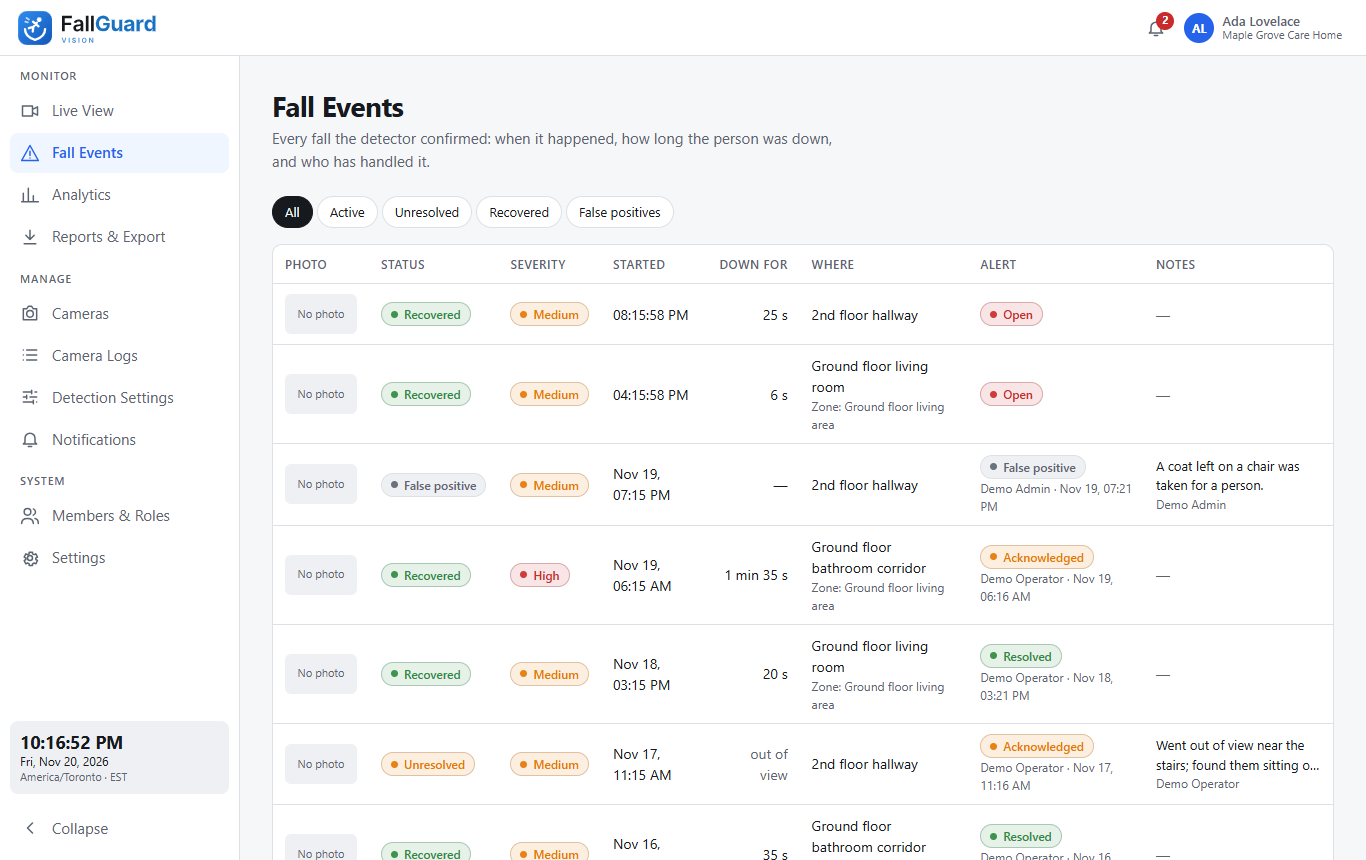
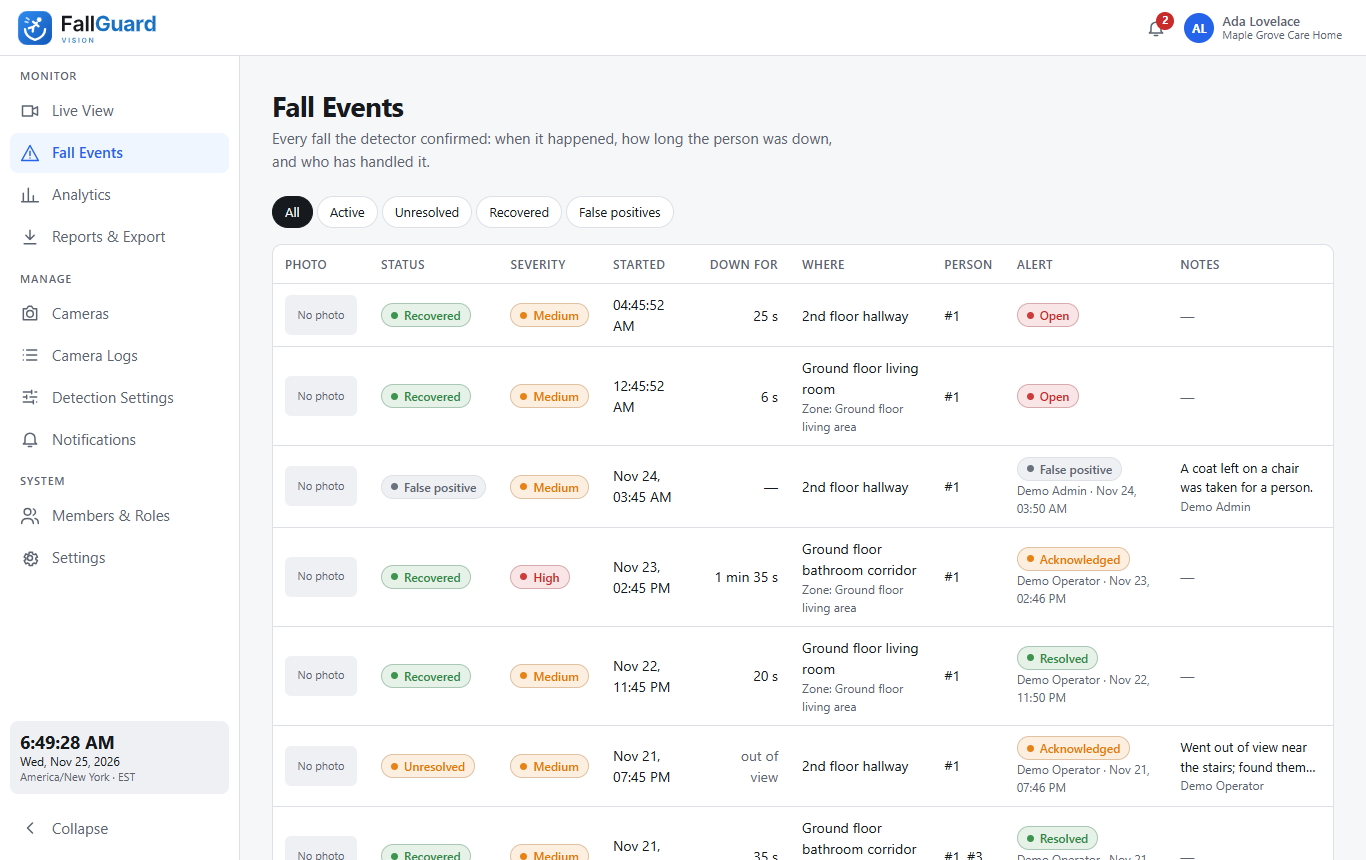
feat(frontend): Person column in Fall Events; reports filtered by fall and printable at once; long timelines fit
- Fall Events: a Person column (the detector's number for the person, e.g. #6), so two falls in
  the same place can be told apart.
- Incident page: the "What the detector saw" timeline fits its column however long the
  incident (it used to widen the left column, so the video ran under the Alert card).
- Reports & Export: the incident report forms follow the filters above (by when the fall
  happened, not when the report was written); Print / PDF for each report and for all listed
  reports at once, each on its own pages. The print layout moved to PrintView.tsx (shared with
  the report editor).
- Detection Settings: "Out of view for" help matches the new detector rule.
- Screenshots 04, 05, 10, 17, 18, 21, 23 refreshed; ARCHITECTURE caption updated.

diff --git a/fallguard-frontend/src/features/incident-reports/IncidentReportsList.tsx b/fallguard-frontend/src/features/incident-reports/IncidentReportsList.tsx
@@ -7,6 +7,7 @@ import { usePolling } from '../../services/api/usePolling';
 import { formatTime } from '../../lib/format';
 import { PERM, useAuth } from '../auth/AuthContext';
 import { formById } from './forms';
+import { useReportPrinter } from './PrintView';
 
 const csvCell = (s: string) => {
   const v = /^[=+\-@\t\r]/.test(s) ? "'" + s : s; // keep spreadsheets from running text as a formula
@@ -82,29 +83,49 @@ function RecentlyDeleted({ onRestored }: { onRestored: () => unknown }) {
   );
 }
 
-/** Every incident report of the organization (Reports & Export page). */
-export function IncidentReportsList() {
+/**
+ * The organization's incident reports (Reports & Export page). With incidentIds, only the
+ * reports of those fall events: the page's filters pick events by when the fall happened,
+ * not by when the report was written. null = the events are still loading.
+ */
+export function IncidentReportsList({ incidentIds }: { incidentIds?: Set<string> | null }) {
   const { can } = useAuth();
   const { data, error, reload } = usePolling(() => incidentReports.list(), 30000);
-  const reports = data?.reports ?? [];
+  const printer = useReportPrinter(can(PERM.incidentReports));
+  const all = data?.reports ?? [];
+  const reports = incidentIds ? all.filter((r) => incidentIds.has(r.incident_id)) : all;
   const osha = reports.filter((r) => r.form === 'osha_301').length;
+  const hidden = all.length - reports.length;
 
   return (
     <section className="card rp-section">
       <div className="rp-head">
         <h2 className="section-title">Incident report forms</h2>
-        {osha > 0 && (
-          <button className="btn" onClick={() => downloadOsha300(reports)}>
-            <Icon name="download" size={16} /> OSHA 300 Log (CSV)
-          </button>
-        )}
+        <div className="row">
+          {osha > 0 && (
+            <button className="btn" onClick={() => downloadOsha300(reports)}>
+              <Icon name="download" size={16} /> OSHA 300 Log (CSV)
+            </button>
+          )}
+          {reports.length > 0 && (
+            <button className="btn btn--primary" disabled={printer.loading} onClick={() => void printer.print(reports)}
+              title="Opens the print dialog with every report listed below, each on its own pages. Choose Save as PDF to download them.">
+              <Icon name="download" size={16} /> {printer.loading ? 'Preparing…' : `Print / PDF all (${reports.length})`}
+            </button>
+          )}
+        </div>
       </div>
-      <p className="muted rp-note">WSIB Form 7, OHSA notices, OSHA 301 and internal reports. Start one from a fall event's page; FallGuard fills in what it recorded.</p>
+      <p className="muted rp-note">
+        WSIB Form 7, OHSA notices, OSHA 301 and internal reports. Start one from a fall event's page; FallGuard fills in what it recorded.
+        {incidentIds !== undefined && ' Shows the reports of the fall events that match the filters above (by when the fall happened).'}
+      </p>
       {error && <p className="notice notice--error">{error}</p>}
-      {reports.length === 0 ? <p className="muted">No incident reports yet.</p> : (
+      {(!data && !error) || incidentIds === null ? <p className="muted">Loading…</p> : reports.length === 0 ? (
+        <p className="muted">{hidden > 0 ? `No reports for these fall events (${hidden} for other events: widen the time window or clear a filter).` : 'No incident reports yet.'}</p>
+      ) : (
         <div className="table-wrap">
           <table className="table">
-            <thead><tr><th>Report</th><th>Incident</th><th>Status</th><th>Started by</th><th>Updated</th></tr></thead>
+            <thead><tr><th>Report</th><th>Fall event</th><th>Status</th><th>Started by</th><th>Updated</th><th /></tr></thead>
             <tbody>
               {reports.map((r) => (
                 <tr key={r.id}>
@@ -115,13 +136,21 @@ export function IncidentReportsList() {
                   <td><StatusBadge value={r.status === 'final' ? 'resolved' : 'acknowledged'} label={r.status === 'final' ? 'Final' : 'Draft'} /></td>
                   <td className="muted">{r.created_by ?? '—'}</td>
                   <td className="muted">{formatTime(r.updated_at)}</td>
+                  <td>
+                    <button className="btn btn--sm" disabled={printer.loading} onClick={() => void printer.print([r])}
+                      aria-label={`Print or save as PDF: ${formById(r.form)?.short ?? r.form}, ${r.title}`}>
+                      Print / PDF
+                    </button>
+                  </td>
                 </tr>
               ))}
             </tbody>
           </table>
+          {hidden > 0 && <p className="muted rp-sub">{hidden} other report(s) belong to fall events outside these filters.</p>}
         </div>
       )}
       {can(PERM.incidentReports) && <RecentlyDeleted onRestored={reload} />}
+      {printer.sheets}
     </section>
   );
 }

diff --git a/fallguard-frontend/src/features/incident-reports/PrintView.tsx b/fallguard-frontend/src/features/incident-reports/PrintView.tsx
@@ -1,0 +1,107 @@
+import { useEffect, useRef, useState } from 'react';
+import { createPortal } from 'react-dom';
+import { incidentReports, type IncidentReport, type ReportFacts } from '../../services/api/accounts';
+import { snapshotUrl } from '../../services/api/fallguard';
+import { formatTime } from '../../lib/format';
+import { formById } from './forms';
+import './reports.css';
+
+/** The report as a printable document (shown only when printing / saving as PDF). */
+export function PrintView({ report, fields, facts }: { report: IncidentReport; fields: Record<string, string>; facts: ReportFacts | null }) {
+  const form = formById(report.form);
+  if (!form) return null;
+  const snap = facts?.cameras.find((c) => c.snapshot_key)?.snapshot_key;
+  return (
+    <article className="rep-print" aria-hidden="true">
+      <header className="rep-print__head">
+        <div>
+          <img src="/brand/logo-horizontal-vision-light.svg" alt="FallGuard Vision" className="rep-print__logo" />
+          <h1>{form.name}</h1>
+          <p>{facts?.org.legal_name || facts?.org.name}</p>
+          <p className="rep-print__for">Prepared for: {form.authority}</p>
+        </div>
+        <div className="rep-print__meta">
+          <div>Status: {report.status === 'final' ? 'Final' : 'Draft'}</div>
+          <div>Incident {report.incident_id.slice(0, 8)}</div>
+          {report.incident_started_at && <div>Fall on {formatTime(report.incident_started_at)}</div>}
+          <div>Printed {new Date().toLocaleString()}</div>
+        </div>
+      </header>
+      <p className="rep-print__deadline"><strong>Deadline:</strong> {form.deadline}</p>
+      {form.sections.map((s) => (
+        <section key={s.title} className="rep-print__section">
+          <h2>{s.title}</h2>
+          <dl>
+            {s.fields.map((f) => (
+              <div key={f.key} className={f.wide || f.type === 'textarea' ? 'wide' : ''}>
+                <dt>{f.label}</dt>
+                <dd>{fields[f.key]?.trim() || '—'}</dd>
+              </div>
+            ))}
+          </dl>
+        </section>
+      ))}
+      {snap && (
+        <section className="rep-print__section">
+          <h2>Snapshot</h2>
+          <img src={snapshotUrl(snap)} alt="" className="rep-print__snap" />
+        </section>
+      )}
+      <footer className="rep-print__foot">
+        <p>{form.disclaimer}</p>
+        <p>Signature: ______________________________ Date: ______________</p>
+      </footer>
+    </article>
+  );
+}
+
+/** Waits until the images inside el have loaded (or failed), at most ms. */
+function imagesLoaded(el: HTMLElement, ms: number) {
+  const pending = [...el.querySelectorAll('img')].filter((i) => !i.complete)
+    .map((i) => new Promise<void>((done) => { i.onload = i.onerror = () => done(); }));
+  return Promise.race([Promise.all(pending), new Promise((done) => setTimeout(done, ms))]);
+}
+
+/**
+ * Prints several reports in one go, each starting on a new page (the browser's print dialog
+ * also saves as PDF). print(list) loads each incident's facts (organization name, snapshot)
+ * when allowed, then opens the dialog with only these reports on it.
+ */
+export function useReportPrinter(withFacts: boolean) {
+  const [batch, setBatch] = useState<{ reports: IncidentReport[]; facts: Record<string, ReportFacts | null> } | null>(null);
+  const [loading, setLoading] = useState(false);
+  const box = useRef<HTMLDivElement>(null);
+
+  useEffect(() => {
+    if (!batch || !box.current) return;
+    let cancelled = false;
+    document.body.classList.add('printing-batch');
+    const done = () => { document.body.classList.remove('printing-batch'); setBatch(null); };
+    window.addEventListener('afterprint', done, { once: true });
+    void imagesLoaded(box.current, 5000).then(() => { if (!cancelled) window.print(); });
+    return () => { cancelled = true; window.removeEventListener('afterprint', done); document.body.classList.remove('printing-batch'); };
+  }, [batch]);
+
+  const print = async (reports: IncidentReport[]) => {
+    if (reports.length === 0) return;
+    setLoading(true);
+    const facts: Record<string, ReportFacts | null> = {};
+    if (withFacts) {
+      const ids = [...new Set(reports.map((r) => r.incident_id))];
+      await Promise.all(ids.map((id) => incidentReports.facts(id).then((f) => { facts[id] = f; }, () => { facts[id] = null; })));
+    }
+    setLoading(false);
+    setBatch({ reports, facts });
+  };
+
+  // In <body> itself, so printing can hide everything else (body.printing-batch in reports.css).
+  const sheets = batch && createPortal(
+    <div ref={box} className="rep-print-batch">
+      {batch.reports.map((r) => (
+        <PrintView key={r.id} report={r} fields={r.content.fields ?? {}} facts={batch.facts[r.incident_id] ?? null} />
+      ))}
+    </div>,
+    document.body,
+  );
+  return { print, loading, sheets };
+}

diff --git a/fallguard-frontend/src/features/incident-reports/ReportEditorPage.tsx b/fallguard-frontend/src/features/incident-reports/ReportEditorPage.tsx
@@ -6,12 +6,12 @@ import { PageHeader } from '../../components/ui/PageHeader';
 import { StatusBadge } from '../../components/ui/StatusBadge';
 import { Icon } from '../../components/ui/Icon';
 import { incidentReports, shareLinks, type IncidentReport, type ReportFacts } from '../../services/api/accounts';
-import { snapshotUrl } from '../../services/api/fallguard';
 import { formatTime } from '../../lib/format';
 import { PERM, useAuth } from '../auth/AuthContext';
 import {
   autoFill, formById, hasBlanks, missing, REPORT_SHARE_DAYS, SHARE_PLACEHOLDER, shareLinkIn, withShareLink, type Field,
 } from './forms';
+import { PrintView } from './PrintView';
 import './reports.css';
 
 const errorText = (e: unknown) => (e instanceof Error ? e.message.charAt(0).toUpperCase() + e.message.slice(1) : String(e));
@@ -53,53 +53,6 @@ function FieldInput({ f, value, onChange, disabled, auto, from }: {
       {input}
       {f.help && <small>{f.help}</small>}
     </label>
-  );
-}
-
-/** The report as a printable document (shown when printing / saving as PDF). */
-function PrintView({ report, fields, facts }: { report: IncidentReport; fields: Record<string, string>; facts: ReportFacts | null }) {
-  const form = formById(report.form)!;
-  const snap = facts?.cameras.find((c) => c.snapshot_key)?.snapshot_key;
-  return (
-    <article className="rep-print" aria-hidden="true">
-      <header className="rep-print__head">
-        <div>
-          <img src="/brand/logo-horizontal-vision-light.svg" alt="FallGuard Vision" className="rep-print__logo" />
-          <h1>{form.name}</h1>
-          <p>{facts?.org.legal_name || facts?.org.name}</p>
-          <p className="rep-print__for">Prepared for: {form.authority}</p>
-        </div>
-        <div className="rep-print__meta">
-          <div>Status: {report.status === 'final' ? 'Final' : 'Draft'}</div>
-          <div>Incident {report.incident_id.slice(0, 8)}</div>
-          <div>Printed {new Date().toLocaleString()}</div>
-        </div>
-      </header>
-      <p className="rep-print__deadline"><strong>Deadline:</strong> {form.deadline}</p>
-      {form.sections.map((s) => (
-        <section key={s.title} className="rep-print__section">
-          <h2>{s.title}</h2>
-          <dl>
-            {s.fields.map((f) => (
-              <div key={f.key} className={f.wide || f.type === 'textarea' ? 'wide' : ''}>
-                <dt>{f.label}</dt>
-                <dd>{fields[f.key]?.trim() || '—'}</dd>
-              </div>
-            ))}
-          </dl>
-        </section>
-      ))}
-      {snap && (
-        <section className="rep-print__section">
-          <h2>Snapshot</h2>
-          <img src={snapshotUrl(snap)} alt="" className="rep-print__snap" />
-        </section>
-      )}
-      <footer className="rep-print__foot">
-        <p>{form.disclaimer}</p>
-        <p>Signature: ______________________________ Date: ______________</p>
-      </footer>
-    </article>
   );
 }
 

diff --git a/fallguard-frontend/src/features/events/EventsPage.tsx b/fallguard-frontend/src/features/events/EventsPage.tsx
@@ -6,7 +6,14 @@ import { api } from '../../services/api/fallguard';
 import { Snapshot } from './Snapshot';
 import { usePolling } from '../../services/api/usePolling';
 import { alertBy, formatDuration, formatTime, secondsSince } from '../../lib/format';
+import type { Incident } from '../../types/domain';
 import './events.css';
+
+/** The detector's number for the person ("#6"), per camera when several saw them. */
+function personLabel(i: Incident) {
+  const ids = [...new Set(i.cameras.filter((c) => c.track_id > 0).map((c) => `#${c.track_id}`))];
+  return ids.length ? ids.join(', ') : <span className="muted">—</span>;
+}
 
 const FILTERS = [
   { value: '', label: 'All' },
@@ -54,7 +61,7 @@ export default function EventsPage() {
             <thead>
               <tr>
                 <th>Photo</th><th>Status</th><th>Severity</th><th>Started</th><th className="num">Down for</th>
-                <th>Where</th><th>Alert</th><th>Notes</th>
+                <th>Where</th><th title="The detector's number for the person on that camera">Person</th><th>Alert</th><th>Notes</th>
               </tr>
             </thead>
             <tbody>
@@ -79,6 +86,7 @@ export default function EventsPage() {
                     <div>{i.location_label || i.camera_name || 'Unknown camera'}</div>
                     <div className="muted ev-sub">{[i.zone && `Zone: ${i.zone}`, i.cameras.length > 1 && `${i.cameras.length} cameras`].filter(Boolean).join(' · ')}</div>
                   </td>
+                  <td>{personLabel(i)}</td>
                   <td>
                     {i.alert ? <StatusBadge value={i.alert.status} /> : <span className="muted">—</span>}
                     {(i.alert?.closed_at || i.alert?.acknowledged_at) && (

diff --git a/fallguard-frontend/src/features/events/events.css b/fallguard-frontend/src/features/events/events.css
@@ -15,8 +15,13 @@
 .ev-legend { margin-top: 8px; }
 
 /* Label timeline: one step per prediction, 2px surface gap between steps. */
-.timeline { list-style: none; margin: 0 0 6px; padding: 0; display: flex; gap: 2px; height: 28px; }
-.timeline__step { flex: 1; min-width: 3px; border-radius: 4px; background: var(--surface-2); }
+.timeline { list-style: none; margin: 0 0 6px; padding: 0; display: flex; gap: 2px; height: 28px; overflow: hidden; }
+.timeline__step { flex: 1 1 0; min-width: 0; border-radius: 4px; background: var(--surface-2); }
+/* Long incidents: steps touch, so hundreds of seconds still fit the column. */
+.timeline--dense { gap: 0; }
+.timeline--dense .timeline__step { border-radius: 0; }
+.timeline--dense .timeline__step:first-child { border-radius: 4px 0 0 4px; }
+.timeline--dense .timeline__step:last-child { border-radius: 0 4px 4px 0; }
 .timeline__step--upright { background: var(--ok); }
 .timeline__step--falling { background: var(--warn); }
 .timeline__step--lying { background: var(--danger); }

diff --git a/fallguard-frontend/src/features/detection/DetectionPage.tsx b/fallguard-frontend/src/features/detection/DetectionPage.tsx
@@ -24,7 +24,7 @@ const TIMINGS: { key: string; label: string; help: string }[] = [
   { key: 'high_after_seconds', label: 'Severity high after', help: 'Still down after this long' },
   { key: 'critical_after_seconds', label: 'Severity critical after', help: 'Still down after this long' },
   { key: 'handoff_seconds', label: 'Same person if renumbered within', help: 'A new tracker ID where someone was just lost carries on their fall' },
-  { key: 'lost_track_seconds', label: 'Out of view for', help: 'Then the incident is "unresolved": someone should check' },
+  { key: 'lost_track_seconds', label: 'Out of view for', help: 'Then they are forgotten. A fall last seen at the edge of the picture becomes "unresolved" (out of view); one hidden inside the picture stays open' },
   { key: 'merge_window_seconds', label: 'Zone merge window', help: 'Falls seen by several cameras of a zone within this time are one alert' },
 ];
 

diff --git a/fallguard-frontend/src/features/events/IncidentPage.tsx b/fallguard-frontend/src/features/events/IncidentPage.tsx
@@ -19,7 +19,7 @@ function Timeline({ predictions }: { predictions: Prediction[] }) {
   if (predictions.length === 0) return <p className="muted">No per-second data stored for this incident.</p>;
   return (
     <>
-      <ol className="timeline" aria-label="Detector labels over time">
+      <ol className={`timeline${predictions.length > 120 ? ' timeline--dense' : ''}`} aria-label="Detector labels over time">
         {predictions.map((p, i) => (
           <li key={i} className={`timeline__step timeline__step--${p.label}`}
             title={`${formatTime(p.at)} · ${LABEL_TEXT[p.label] ?? p.label} (${p.confidence.toFixed(2)})`} />

diff --git a/fallguard-frontend/src/features/incident-reports/reports.css b/fallguard-frontend/src/features/incident-reports/reports.css
@@ -55,6 +55,9 @@
   .rep-print dt { font-size: 8.5pt; color: #444; }
   .rep-print dd { margin: 0; white-space: pre-wrap; border-bottom: 1px solid #ccc; min-height: 1.3em; }
   .rep-print__snap { max-width: 60%; max-height: 70mm; }
+  /* Several reports printed from Reports & Export: only them, each on its own pages. */
+  body.printing-batch > :not(.rep-print-batch) { display: none !important; }
+  .rep-print-batch .rep-print + .rep-print { break-before: page; }
   .rep-print__foot { margin-top: 14px; font-size: 9pt; border-top: 1px solid #000; padding-top: 6px; }
 }
 

diff --git a/fallguard-frontend/src/components/ui/ui.css b/fallguard-frontend/src/components/ui/ui.css
@@ -54,7 +54,7 @@
 .tile__hint { font-size: 12px; color: var(--text-muted); }
 
 .section-title { font-size: 16px; margin: 0 0 12px; }
-.stack { display: grid; gap: 20px; }
+.stack { display: grid; gap: 20px; grid-template-columns: minmax(0, 1fr); }
 .row { display: flex; gap: 8px; flex-wrap: wrap; align-items: center; }
 .tabs { display: flex; gap: 4px; flex-wrap: wrap; margin-bottom: 16px; }
 .tab { height: 32px; padding: 0 12px; border-radius: 99px; border: 1px solid var(--border); font-size: 13px; background: var(--surface); }

diff --git a/fallguard-frontend/src/features/reports/ReportsPage.tsx b/fallguard-frontend/src/features/reports/ReportsPage.tsx
@@ -185,7 +185,9 @@ export default function ReportsPage() {
         </div>
       </section>
 
-      {(can(PERM.viewReports) || can(PERM.incidentReports)) && <IncidentReportsList />}
+      {(can(PERM.viewReports) || can(PERM.incidentReports)) && (
+        <IncidentReportsList incidentIds={list.data ? new Set(incidents.map((i) => i.id)) : null} />
+      )}
     </>
   );
 }

diff --git a/fallguard-frontend/docs/ARCHITECTURE.md b/fallguard-frontend/docs/ARCHITECTURE.md
@@ -305,7 +305,7 @@ Incident detail (alert actions, history, notes, incident reports, share video):
 |---|---|---|
 | ![Forms](screenshots/06-report-forms.png) | ![WSIB](screenshots/07-report-wsib.png) | ![Auto-filled](screenshots/08-report-wsib-autofilled.png) |
 
-Reports & Export (incident log, report forms, activity log):
+Reports & Export (incident log, activity log, and the incident reports of the filtered falls, printable one by one or all at once):
 
 ![Reports](screenshots/10-reports.png)
 
